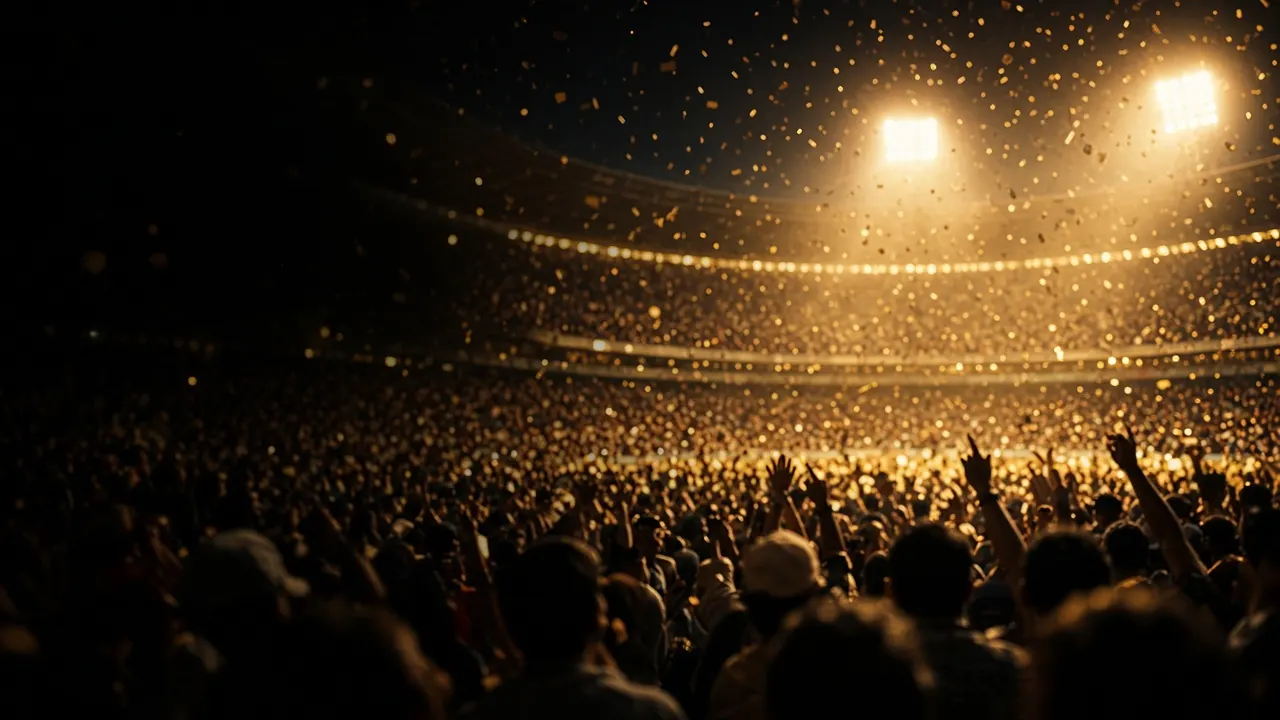
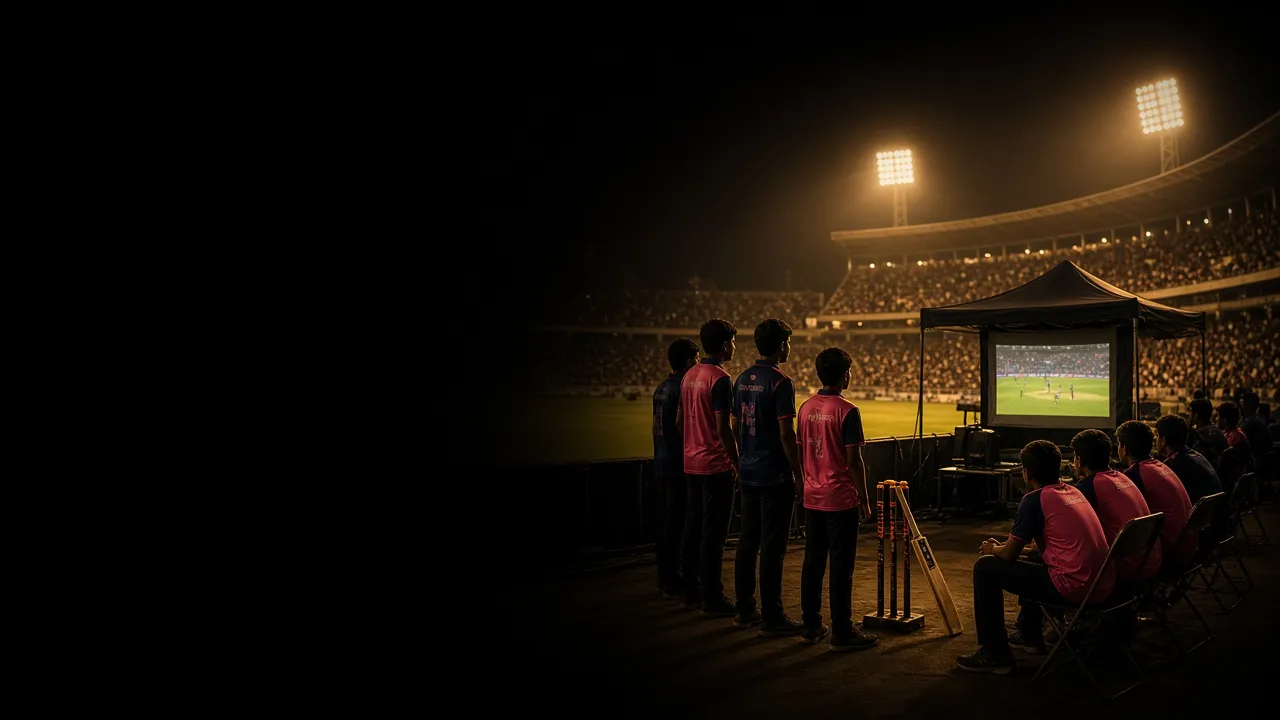
Retheme hero to printers, projectors, school events and cricket

diff --git a/src/components/HeroShowcase.jsx b/src/components/HeroShowcase.jsx
@@ -4,10 +4,10 @@ import { Link } from 'react-router-dom'
 const SLIDE_MS = 6500
 
 const slides = [
-  { src: '/hero/cricket.webp', activity: 'Cricket & sports', place: 'Stadium fan engagement', position: '65% center' },
-  { src: '/hero/school.webp', activity: 'School programs', place: 'Campus activations', position: '70% center' },
-  { src: '/hero/retail.webp', activity: 'Brand activations', place: 'Retail & mall demos', position: '72% center' },
-  { src: '/hero/event.webp', activity: 'Live events', place: 'Stage & experiential', position: '70% center' },
+  { src: '/hero/school.webp', activity: 'Projectors', place: 'School & campus demos', position: '72% center' },
+  { src: '/hero/printers.webp', activity: 'Printers', place: 'Dealer meets & showcases', position: '70% center' },
+  { src: '/hero/cricket.webp', activity: 'Cricket', place: 'Match-day activations', position: '68% center' },
+  { src: '/hero/event.webp', activity: 'School events', place: 'Education activations', position: '70% center' },
 ]
 
 const stats = [
@@ -78,7 +78,7 @@ export default function HeroShowcase() {
             </span>
           </h1>
           <p className="mt-7 max-w-xl animate-fade-up text-base leading-relaxed text-zinc-300 [animation-delay:360ms] md:text-lg">
-            Brand activations, school programs, cricket and sports engagement, and on-ground events, planned with
+            Printers, projectors, school programs, dealer meets and cricket match activations, planned with
             strategy and executed across India.
           </p>
           <div className="mt-9 flex animate-fade-up flex-col gap-4 [animation-delay:480ms] sm:flex-row">
